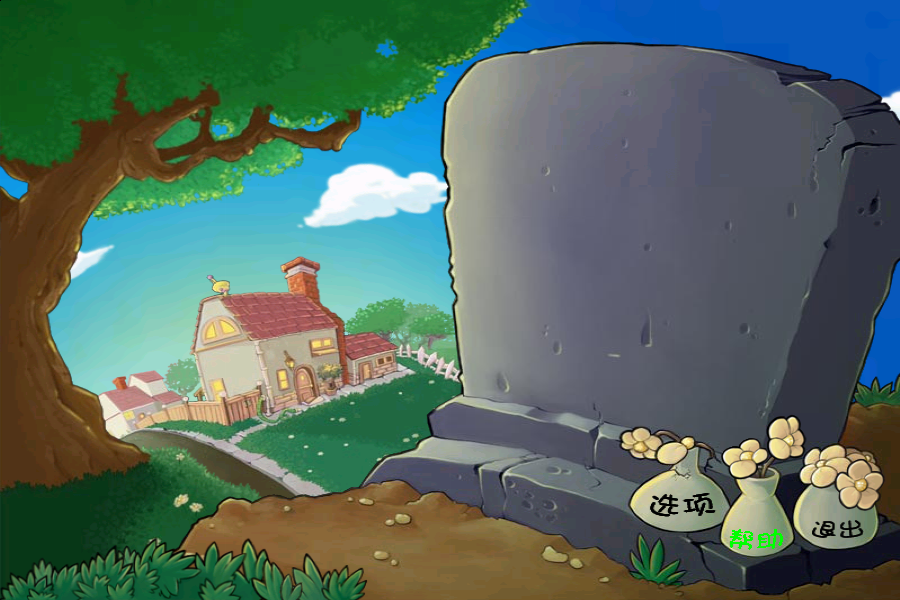
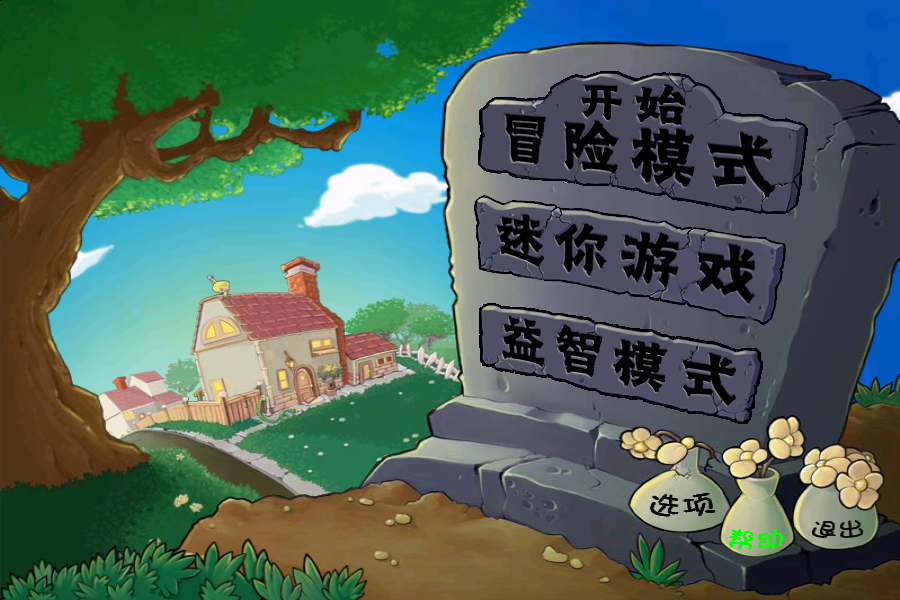
make the welcome more beautiful

Changed region(s): [[0.5289, 0.12, 0.9022, 0.54], [0.5289, 0.51, 0.8711, 0.72]]

diff --git a/welcomewidget.cpp b/welcomewidget.cpp
@@ -57,6 +57,21 @@ bool WelcomeWidget::eventFilter(QObject *obj, QEvent *event)
                     SwitchBackground(Background::Option);
                     setCursor(Qt::PointingHandCursor);
                 }
+                else if(InArea(BackgroundArea::AdvenceArea, m_QMouseEvent->x(), m_QMouseEvent->y()))
+                {
+                    SwitchBackground(Background::Advence);
+                    setCursor(Qt::PointingHandCursor);
+                }
+                else if(InArea(BackgroundArea::MiniArea, m_QMouseEvent->x(), m_QMouseEvent->y()))
+                {
+                    SwitchBackground(Background::Mini);
+                    setCursor(Qt::PointingHandCursor);
+                }
+                else if(InArea(BackgroundArea::IQArea, m_QMouseEvent->x(), m_QMouseEvent->y()))
+                {
+                    SwitchBackground(Background::IQ);
+                    setCursor(Qt::PointingHandCursor);
+                }
                 else
                 {
                     SwitchBackground(Background::Default);
@@ -87,6 +102,27 @@ bool WelcomeWidget::eventFilter(QObject *obj, QEvent *event)
                 else
                     setCursor(Qt::ArrowCursor);
                 break;
+            case BackgroundArea::AdvenceArea:
+                SwitchBackground(Background::Advence);
+                if(InArea(BackgroundArea::AdvenceArea, m_QMouseEvent->x(), m_QMouseEvent->y()))
+                    setCursor(Qt::PointingHandCursor);
+                else
+                    setCursor(Qt::ArrowCursor);
+                break;
+            case BackgroundArea::MiniArea:
+                SwitchBackground(Background::Mini);
+                if(InArea(BackgroundArea::MiniArea, m_QMouseEvent->x(), m_QMouseEvent->y()))
+                    setCursor(Qt::PointingHandCursor);
+                else
+                    setCursor(Qt::ArrowCursor);
+                break;
+            case BackgroundArea::IQArea:
+                SwitchBackground(Background::IQ);
+                if(InArea(BackgroundArea::IQArea, m_QMouseEvent->x(), m_QMouseEvent->y()))
+                    setCursor(Qt::PointingHandCursor);
+                else
+                    setCursor(Qt::ArrowCursor);
+                break;
             default:
                 break;
             }
@@ -103,6 +139,12 @@ bool WelcomeWidget::eventFilter(QObject *obj, QEvent *event)
                     CurrentPointArea = BackgroundArea::HelpArea;
                 else if(InArea(BackgroundArea::OptionArea, m_QMouseEvent->x(), m_QMouseEvent->y()))
                     CurrentPointArea = BackgroundArea::OptionArea;
+                else if(InArea(BackgroundArea::AdvenceArea, m_QMouseEvent->x(), m_QMouseEvent->y()))
+                    CurrentPointArea = BackgroundArea::AdvenceArea;
+                else if(InArea(BackgroundArea::MiniArea, m_QMouseEvent->x(), m_QMouseEvent->y()))
+                    CurrentPointArea = BackgroundArea::MiniArea;
+                else if(InArea(BackgroundArea::IQArea, m_QMouseEvent->x(), m_QMouseEvent->y()))
+                    CurrentPointArea = BackgroundArea::IQArea;
                 else
                     CurrentPointArea = BackgroundArea::OtherArea;
                 return true;
@@ -136,6 +178,24 @@ bool WelcomeWidget::eventFilter(QObject *obj, QEvent *event)
                     break;
                 case BackgroundArea::OptionArea:
                     if(InArea(BackgroundArea::OptionArea, m_QMouseEvent->x(), m_QMouseEvent->y()))
+                    {
+                        // to do something
+                    }
+                    break;
+                case BackgroundArea::AdvenceArea:
+                    if(InArea(BackgroundArea::AdvenceArea, m_QMouseEvent->x(), m_QMouseEvent->y()))
+                    {
+                        // to do something
+                    }
+                    break;
+                case BackgroundArea::MiniArea:
+                    if(InArea(BackgroundArea::MiniArea, m_QMouseEvent->x(), m_QMouseEvent->y()))
+                    {
+                        // to do something
+                    }
+                    break;
+                case BackgroundArea::IQArea:
+                    if(InArea(BackgroundArea::IQArea, m_QMouseEvent->x(), m_QMouseEvent->y()))
                     {
                         // to do something
                     }
@@ -285,6 +345,14 @@ void WelcomeWidget::SwitchBackground(Background background)
     case Background::Option:
         CurrentBackground->load(":/surface/res/images/surface/SurfaceOption.png");
         break;
+    case Background::Advence:
+        CurrentBackground->load(":/surface/res/images/surface/SurfaceAdvence.png");
+        break;
+    case Background::Mini:
+        CurrentBackground->load(":/surface/res/images/surface/SurfaceMini.png");
+        break;
+    case Background::IQ:
+        CurrentBackground->load(":/surface/res/images/surface/SurfaceIQ.png");
     default:
         break;
     }
@@ -339,6 +407,28 @@ bool WelcomeWidget::InArea(BackgroundArea currentArea, int _x, int _y)
     case BackgroundArea::ExitCancelArea:
         return ComparePosition(_x, _y, 445, 608, 364, 410);
         break;
+    case BackgroundArea::AdvenceArea:
+        if(_x >= ForScale(481) && _x <= ForScale(787) && _y >= AdvenceLabelTop(_x) && _y <= AdvenceLabelButton(_x))
+            return true;
+        else
+            return false;
+        break;
+    case BackgroundArea::MiniArea:
+        if(_x >= ForScale(478) && _x <= ForScale(776)
+                && _y >= ForScale((201 + ((248 - 201) * 1.0 * (_x / GlobalManager::DesktopScale - 478)) / (776 - 478)))
+                && _y <= ForScale((267 + ((323 - 267) * 1.0 * (_x / GlobalManager::DesktopScale - 478)) / (776 - 478))))
+            return true;
+        else
+            return false;        
+        break;
+    case BackgroundArea::IQArea:
+        if(_x >= ForScale(482) && _x <= ForScale(750)
+                && _y >= ForScale((308 + ((356 - 308) * 1.0 * (_x / GlobalManager::DesktopScale - 482)) / (750 - 482)))
+                && _y <= ForScale((365 + ((426 - 365) * 1.0 * (_x / GlobalManager::DesktopScale - 482)) / (750 - 482))))
+            return true;
+        else
+            return false;    
+        break;
     default:
         break;
     }
@@ -351,4 +441,25 @@ bool WelcomeWidget::ComparePosition(int _x, int _y, int xMin, int xMax, int yMin
         return true;
     else
         return false;
+}
+
+int WelcomeWidget::AdvenceLabelTop(int x)
+{
+    if(x >= ForScale(481) && x <= ForScale(539))
+        return ForScale(105);
+    else if(x > ForScale(539) && x <= ForScale(574))
+        return ForScale((105 + ((80 - 105) * 1.0 * (x / GlobalManager::DesktopScale - 539)) / (574 - 539)));
+    else if(x > ForScale(574) && x <= ForScale(687))
+        return ForScale(80);
+    else if(x > ForScale(687) && x <= ForScale(717))
+        return ForScale((80 + ((119 - 80) * 1.0 * (x / GlobalManager::DesktopScale - 687)) / (717 - 687)));
+    else if(x > ForScale(717) && x <= ForScale(787))
+        return ForScale((119 + ((129 - 119) * 1.0 * (x / GlobalManager::DesktopScale - 717)) / (787 - 717)));
+    else
+        return 0;
+}
+
+int WelcomeWidget::AdvenceLabelButton(int x)
+{
+    return ForScale((171 + ((218 - 171) * 1.0 * (x / GlobalManager::DesktopScale - 481)) / (787 - 481)));
 }

diff --git a/welcomewidget.h b/welcomewidget.h
@@ -12,8 +12,9 @@ public:
     ~WelcomeWidget();
     
 private:
-    enum class Background { NoBackGround, Default, Exit, Help, Option };
-    enum class BackgroundArea { NullArea, OtherArea, ExitArea, HelpArea, OptionArea, ExitOKArea, ExitCancelArea };
+    enum class Background { NoBackGround, Default, Exit, Help, Option, Advence, Mini, IQ };
+    enum class BackgroundArea { NullArea, OtherArea, ExitArea, HelpArea, OptionArea, 
+                                ExitOKArea, ExitCancelArea, AdvenceArea, MiniArea, IQArea };
     enum class ExitStatus { NotExit, ExitNormal, ExitOK, ExitCancel };
     
     bool InArea(BackgroundArea, int, int);
@@ -36,6 +37,9 @@ private:
     QLabel *ExitMainWidgetLabel;
     QPixmap *ExitMainWidget;
     ExitStatus CurrentExitStatus;
+    
+    int AdvenceLabelTop(int x);
+    int AdvenceLabelButton(int x);
     
 };
 
